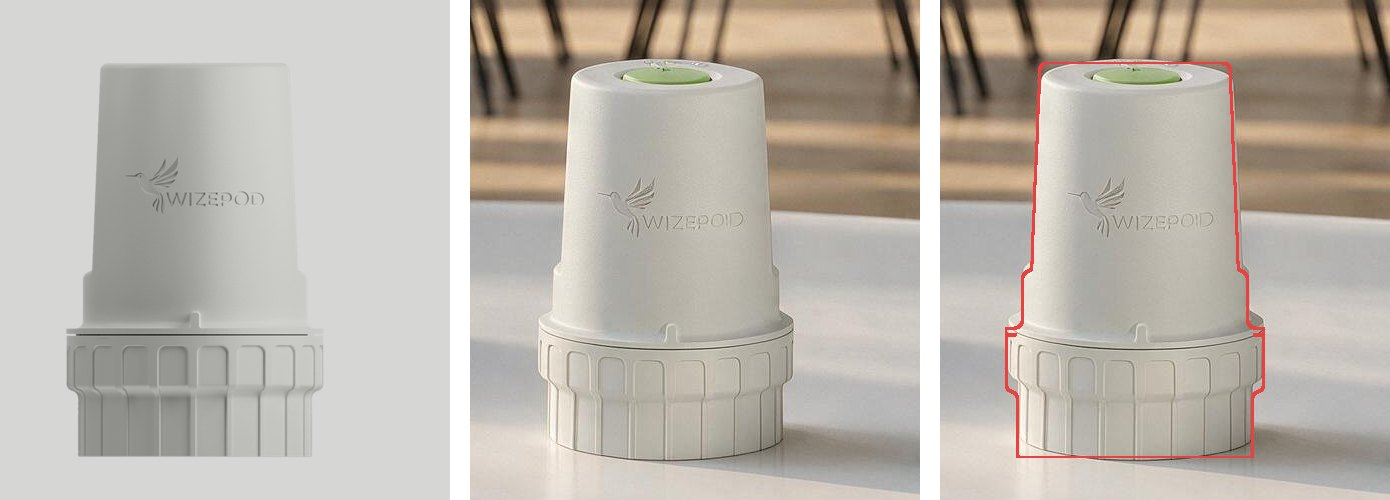
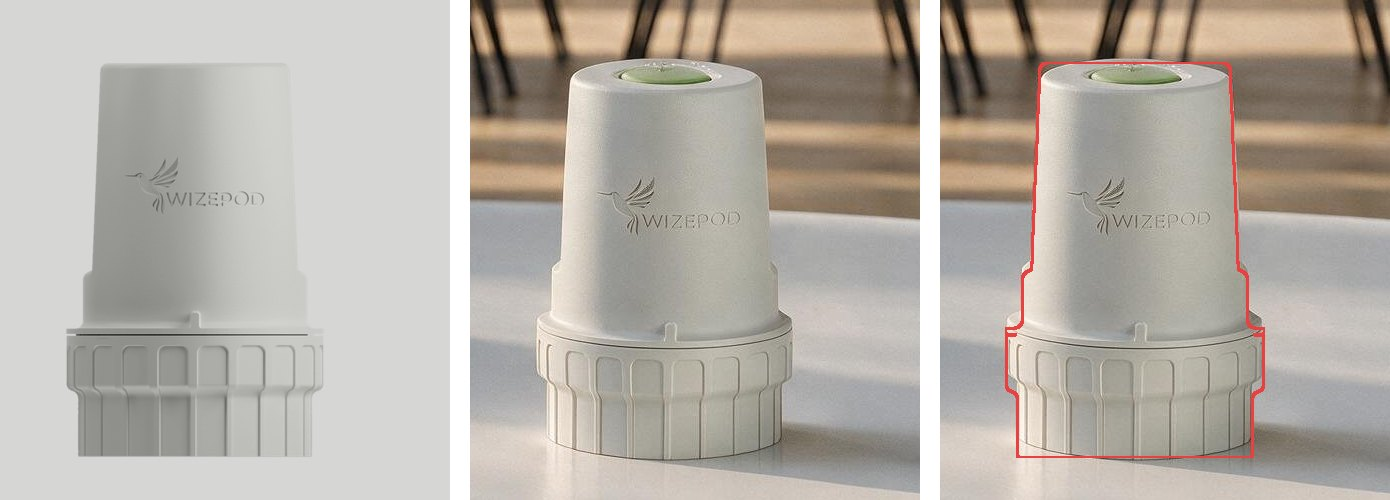
Fix the Wizepod lifestyle frame, new cover and idle glass motion
Use the edit-pass frame where the embossed mark reads WIZEPOD, make it
the project cover and link preview, re-measure its button green, and
give the glass buttons a slow idle glint so they read as interactive.

diff --git a/components/WizepodLayoutStudy.tsx b/components/WizepodLayoutStudy.tsx
@@ -32,8 +32,8 @@ const CSS = `
   --glass-shadow:0 18px 36px -14px rgba(50,38,30,.28), 0 3px 8px -2px rgba(50,38,30,.08);
   --glass-shadow-hover:0 22px 40px -14px rgba(50,38,30,.32), 0 4px 10px -2px rgba(50,38,30,.10);
   --glass-ease:cubic-bezier(.2,.8,.2,1); --glass-dur:.45s; --glass-blur:4px; --glass-rim-w:1.2px;
-  --glass-rim:conic-gradient(from 0deg, rgba(255,255,255,.25) 0deg, rgba(255,255,255,.08) 50deg, rgba(255,255,255,.55) 110deg, rgba(255,255,255,1) 140deg, rgba(255,255,255,.5) 170deg, rgba(255,255,255,.06) 230deg, rgba(255,255,255,.55) 290deg, rgba(255,255,255,1) 318deg, rgba(255,255,255,.5) 345deg, rgba(255,255,255,.25) 360deg);
-  --glass-rim-hover:conic-gradient(from 0deg, rgba(255,255,255,.3) 0deg, rgba(151,179,108,.5) 60deg, rgba(255,255,255,1) 140deg, rgba(151,179,108,.4) 230deg, rgba(255,255,255,1) 318deg, rgba(255,255,255,.3) 360deg);
+  --glass-rim:conic-gradient(from var(--rim-a), rgba(255,255,255,.25) 0deg, rgba(255,255,255,.08) 50deg, rgba(255,255,255,.55) 110deg, rgba(255,255,255,1) 140deg, rgba(255,255,255,.5) 170deg, rgba(255,255,255,.06) 230deg, rgba(255,255,255,.55) 290deg, rgba(255,255,255,1) 318deg, rgba(255,255,255,.5) 345deg, rgba(255,255,255,.25) 360deg);
+  --glass-rim-hover:conic-gradient(from var(--rim-a), rgba(255,255,255,.3) 0deg, rgba(151,179,108,.5) 60deg, rgba(255,255,255,1) 140deg, rgba(151,179,108,.4) 230deg, rgba(255,255,255,1) 318deg, rgba(255,255,255,.3) 360deg);
   --glass-highlight:inset 0 0 0 .5px rgba(255,255,255,.18), inset 0 0 12px rgba(255,255,255,.38), inset 3px 4px 3px -2px rgba(255,255,255,.75), inset -3px -4px 3px -2px rgba(255,255,255,.55), inset 0 -10px 18px -12px rgba(255,255,255,.5);
   --serif:'Fraunces', Georgia, serif;
   --guide:rgba(26,26,26,.55); --guide-keepout:rgba(151,179,108,.9);
@@ -64,7 +64,17 @@ const CSS = `
   border:1.5px solid rgba(255,255,255,.9);box-shadow:0 0 0 1px rgba(151,179,108,.28), inset 0 0 14px rgba(255,255,255,.35);
   animation:wz-ripple 1.5s cubic-bezier(.2,.7,.2,1) forwards;}
 @keyframes wz-ripple{0%{transform:translate(-50%,-50%) scale(.06);opacity:.95;}100%{transform:translate(-50%,-50%) scale(1);opacity:0;}}
-@media (prefers-reduced-motion: reduce){.wz-ripple{animation-duration:.01s;}.wz-btn{transition:none;}}
+@property --rim-a{syntax:'<angle>';inherits:true;initial-value:0deg;}
+@property --sheen-x{syntax:'<percentage>';inherits:false;initial-value:20%;}
+.wz-btn{animation:wz-rim 9s linear infinite;}
+.wz-btn::after{content:'';position:absolute;inset:0;border-radius:inherit;pointer-events:none;
+  background:radial-gradient(38% 120% at var(--sheen-x) 25%, rgba(255,255,255,.55), rgba(255,255,255,0) 70%);
+  opacity:.45;mix-blend-mode:soft-light;animation:wz-sheen 7s ease-in-out infinite alternate;}
+.wz-btn:hover::after{opacity:.7;}
+.wz-label{position:relative;z-index:1;display:inherit;align-items:inherit;gap:inherit;}
+@keyframes wz-rim{to{--rim-a:360deg;}}
+@keyframes wz-sheen{0%{--sheen-x:18%;}100%{--sheen-x:82%;}}
+@media (prefers-reduced-motion: reduce){.wz-ripple{animation-duration:.01s;}.wz-btn,.wz-btn::after{animation:none;transition:none;}}
 `;
 
 type Ripple = { id: number; x: number; y: number };
@@ -144,7 +154,7 @@ export const WizepodLayoutStudy: React.FC<{ language: Language }> = ({ language 
           <div style={{ position: 'absolute', left: '62%', top: '14.5%', width: '30%', display: 'flex', flexDirection: 'column', gap: '1.8cqw', alignItems: 'flex-start' }}>
             <p className="wz-body" style={{ fontSize: '1.3cqw' }}>{c.body}</p>
             <div style={{ display: 'flex', alignItems: 'center', gap: '1.8cqw', fontSize: '1.1cqw' }}>
-              <button type="button" data-ripple className="wz-glass wz-btn" style={{ gap: '.7cqw', padding: '1.15cqw 2.5cqw' }}>{c.buy}</button>
+              <button type="button" data-ripple className="wz-glass wz-btn" style={{ gap: '.7cqw', padding: '1.15cqw 2.5cqw' }}><span className="wz-label">{c.buy}</span></button>
               <button type="button" data-ripple className="wz-link" style={{ paddingBottom: '.2cqw' }}>{c.how}</button>
             </div>
           </div>
@@ -186,7 +196,7 @@ export const WizepodLayoutStudy: React.FC<{ language: Language }> = ({ language 
               <button type="button" data-ripple className="wz-link" style={{ fontSize: '4.1cqw', paddingBottom: '.6cqw' }}>{c.how}</button>
             </div>
             <button type="button" data-ripple className="wz-glass wz-btn" style={{ position: 'absolute', left: '6%', right: '6%', bottom: '6%', height: '13.5cqw', minHeight: 48, justifyContent: 'center', gap: '2cqw', fontSize: '4.3cqw' }}>
-              <span className="wz-dot" style={{ width: '1.6cqw', height: '1.6cqw' }} />{c.buy}
+              <span className="wz-label"><span className="wz-dot" style={{ width: '1.6cqw', height: '1.6cqw' }} />{c.buy}</span>
             </button>
             {guides && (
               <div className="wz-guides" style={{ fontSize: 8 }}>

diff --git a/components/WizepodAICaseStudy.tsx b/components/WizepodAICaseStudy.tsx
@@ -36,7 +36,7 @@ const PROMPT_ORDER = ['References', 'Product (fixed)', 'Scale', 'Perspective', '
 
 // Mean color of the button pixels in each final frame, against the brand green
 const BUTTON_SWATCHES = [
-  { area: L('Lifestyle scene', 'Yaşam sahnesi'), out: '#9BAC7C', de: '12.3' },
+  { area: L('Lifestyle scene', 'Yaşam sahnesi'), out: '#839466', de: '16.8' },
   { area: L('E-commerce hero', 'E-ticaret hero'), out: '#B2C283', de: '9.5' },
   { area: L('Application', 'Uygulama'), out: '#99B07E', de: '11.0' },
 ];
@@ -277,7 +277,7 @@ export const WizepodAICaseStudy: React.FC<{ language: Language }> = ({ language 
                   [L('Height (target 7 cm)', 'Yükseklik (hedef 7 cm)'), isEN ? '≈ 7.7 cm · +11%' : '≈ 7,7 cm · +%11'],
                   [L('Silhouette', 'Silüet'), isEN ? 'Body and collar within the outline' : 'Gövde ve yaka kontur içinde'],
                   [L('Ribbed base cap', 'Yivli taban'), isEN ? 'Kept, even spacing' : 'Korundu, eşit aralık'],
-                  [L('Embossed mark', 'Kabartma logo'), isEN ? 'Tonal ✓ · lettering drifted to “WIZEPOID” ✗' : 'Tonal ✓ · yazı “WIZEPOID”e kaydı ✗'],
+                  [L('Embossed mark', 'Kabartma logo'), isEN ? 'Tonal ✓ · “WIZEPOID” fixed in one edit pass' : 'Tonal ✓ · “WIZEPOID” tek düzeltme turuyla giderildi'],
                   [L('Surface', 'Yüzey'), isEN ? 'Matte ✓' : 'Mat ✓'],
                   [L('Sensor slot', 'Sensör yuvası'), isEN ? 'Exactly one ✓' : 'Tam bir tane ✓'],
                 ].map(([k, v]) => (

diff --git a/constants.ts b/constants.ts
@@ -302,7 +302,7 @@ export const PROJECTS: Project[] = [
       [Language.EN]: "3D product film for the Wizepod CGM, extended into AI-generated scenes that use the same renders as their only product reference.",
       [Language.TR]: "Wizepod CGM için 3D ürün filmi; aynı render'ları tek ürün referansı olarak kullanan AI sahneleriyle genişletildi."
     },
-    image: '/works/Wizepod/hero.png',
+    image: '/works/Wizepod_AI/hero.jpg',
     heroFit: 'cover',
     client: "Wizepod",
     clientLogo: '/works/Wizepod/Primewize Logo Kare.png',
